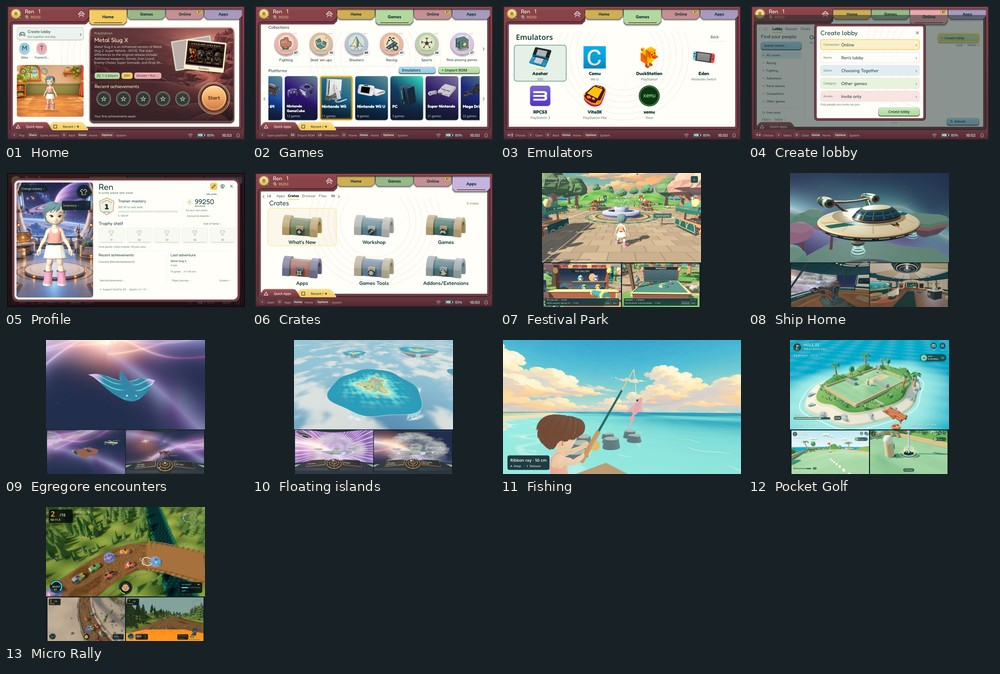
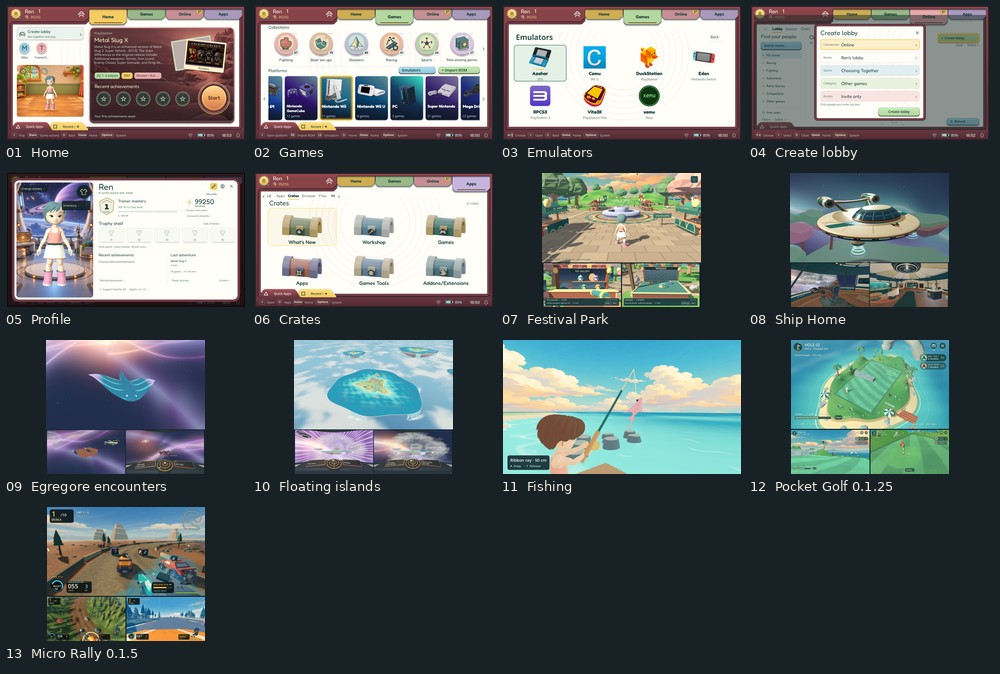
Recapture Pocket Golf and Micro Rally from published Crates builds and expose the collages

Changed region(s): [[0.775, 0.4985, 0.961, 0.7478], [0.031, 0.7478, 0.217, 0.9659]]

diff --git a/README.md b/README.md
@@ -4,6 +4,15 @@
 
 В пакете 13 изображений и английский текст анонса. В каждой папке `images` вложения пронумерованы в порядке публикации. Домашний экран OctoFox открывает галерею, следом идут библиотека и лобби, затем Базар, корабль, рыбалка, гольф и гонки.
 
+## Коллажи и отдельные игровые кадры
+
+[Все шесть коллажей](Collages) · [Корабль](Collages/03-ship.jpg) · [Встречи в эгрегоре](Collages/01-egregore-encounters.jpg) · [Острова](Collages/02-egregore-islands.jpg) · [Базар](Collages/04-bazaar.jpg) · [Micro Rally](Collages/05-micro-rally.jpg) · [Pocket Golf](Collages/06-pocket-golf.jpg)
+
+22 ноября игровые кадры пересняты в опубликованных Linux-сборках x86_64 из каталога Crates, ревизия 51. Те же коллажи лежат среди вложений для обеих площадок.
+
+- **Micro Rally 0.1.5** — погоня в Redstone Quarry, гонка в Dirty Valley и вид с капота на Нюрбургринге. [Три кадра в PNG](Gameplay/micro-rally-0.1.5) · [Релиз](https://github.com/EriArk/crates/releases/tag/micro-rally-v0.1.5).
+- **Pocket Golf 0.1.25** — поле The Bank Shot сверху и с уровня грина, мяч у флажка на First Light. Снято в локальной игре с соперником. [Три кадра в PNG](Gameplay/pocket-golf-0.1.25) · [Релиз](https://github.com/EriArk/crates/releases/tag/pocket-golf-v0.1.25).
+
 ## Discord
 
 1. Открой [01-shell](Discord/01-shell). Скопируй содержимое `message.txt` в сообщение и прикрепи пять файлов из соседней папки `images`.
@@ -17,4 +26,4 @@
 
 ![Порядок изображений в галерее Reddit](gallery-preview.jpg)
 
-[Авторский Markdown](announcement-original.md) сохранён в исходном виде. [Полная подборка из 41 скриншота и шести коллажей](https://github.com/EriArk/OctoFox-OS/tree/8203cd5804d8bb197160103801b36f9adf30968b/docs/alpha-release/publications/screenshots/alpha-9) пригодится, если захочется заменить кадр перед публикацией.
+[Авторский Markdown](announcement-original.md) сохранён в исходном виде. [Архив первой подборки из 41 скриншота и шести коллажей](https://github.com/EriArk/OctoFox-OS/tree/8203cd5804d8bb197160103801b36f9adf30968b/docs/alpha-release/publications/screenshots/alpha-9) пригодится, если захочется заменить кадр перед публикацией.
